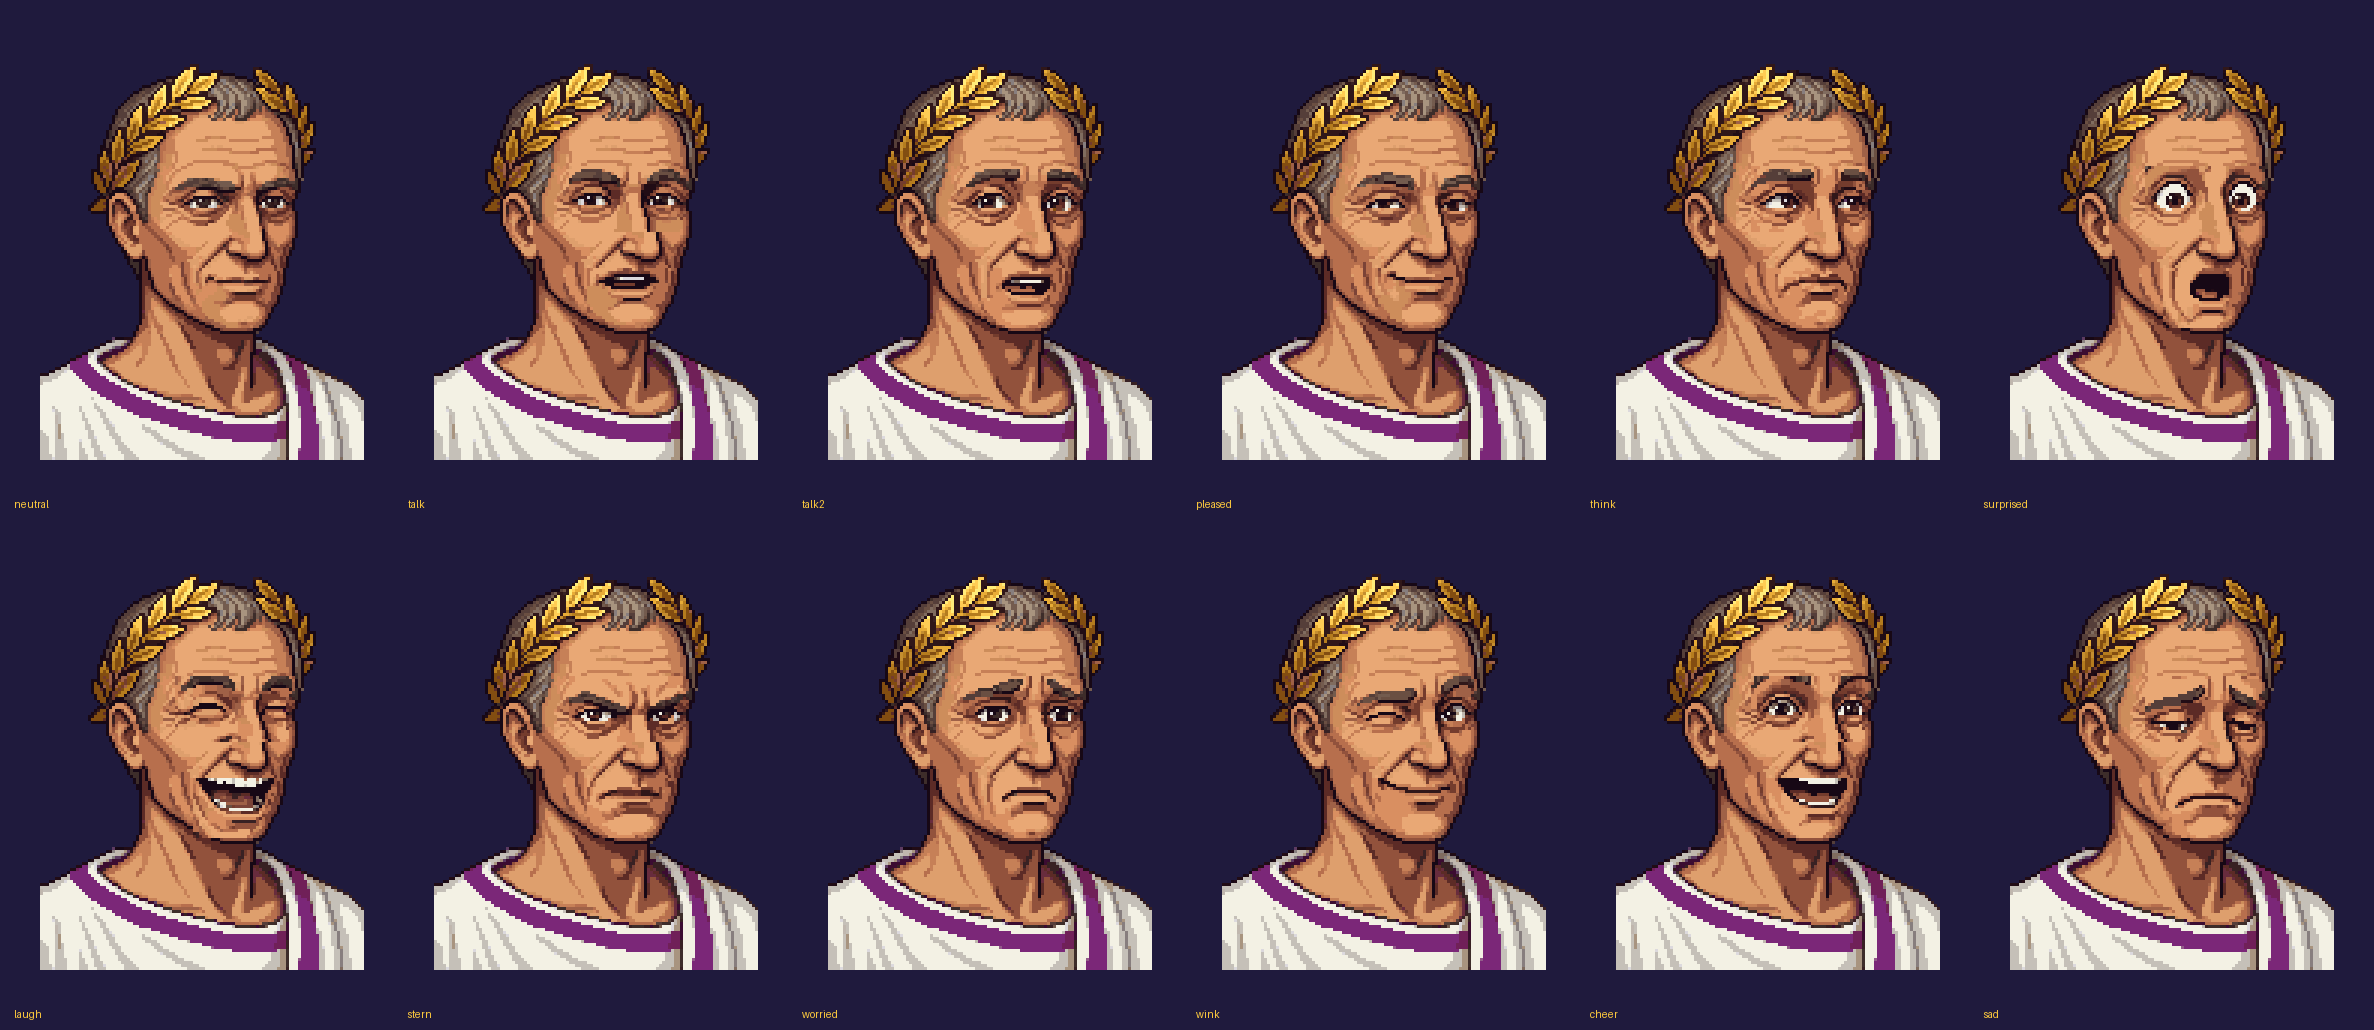
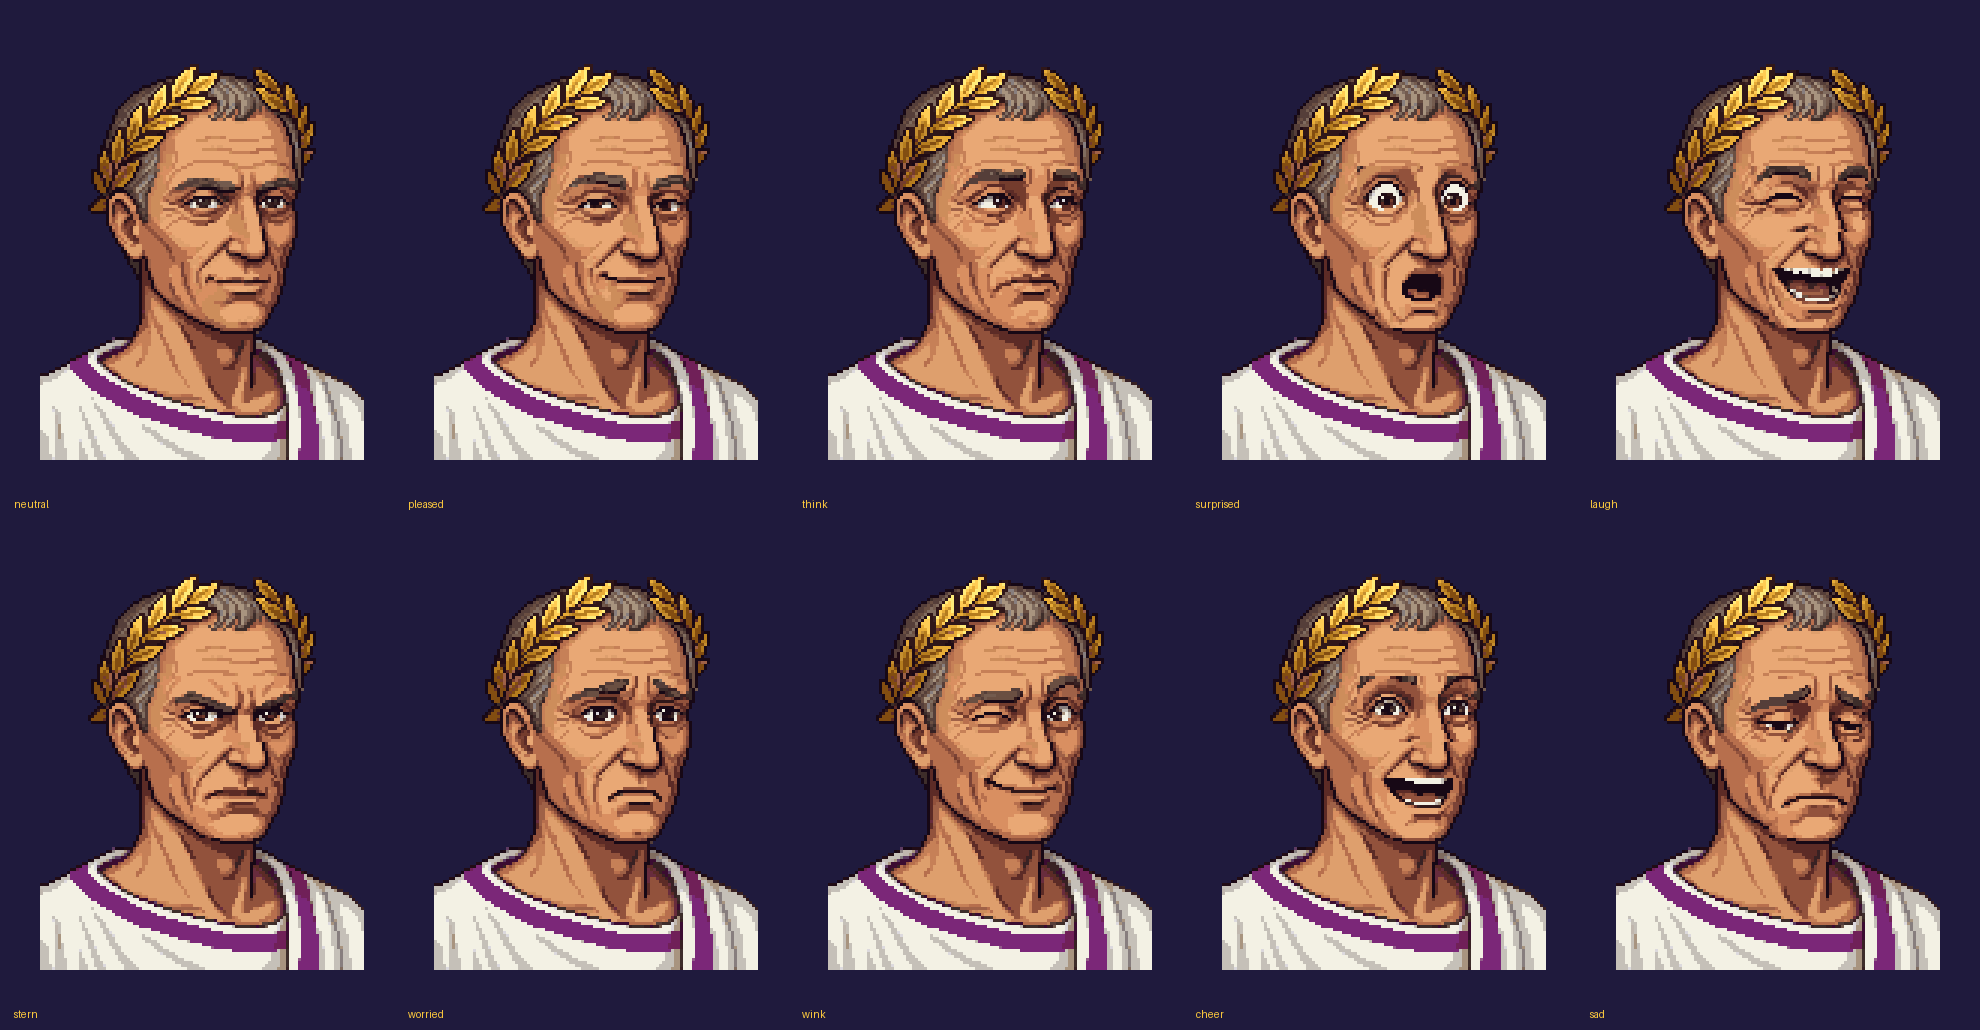
Cesar: la boca sigue al audio y el resto de la cara queda quieta
Fotogramas de solo boca (m1-m3) y envolvente de cada audio (audio/boca.json,
tools/voz/boca.py). El avatar pasa a canvas y se quita el rebote vertical.

diff --git a/app.js b/app.js
@@ -111,35 +111,49 @@ let openLevels = new Set();
 function readState(){try{return {...defaultState,...JSON.parse(localStorage.getItem('lingua-latina-v1')||'{}')}}catch{return {...defaultState}}}
 function saveState(){localStorage.setItem('lingua-latina-v1',JSON.stringify(state));updateCounts()}
 const player=new Audio();player.preload='auto';
-['playing'].forEach(e=>player.addEventListener(e,()=>talking(true)));['ended','pause','error'].forEach(e=>player.addEventListener(e,()=>talking(false)));
+player.addEventListener('playing',()=>talking(true,player.dataset.k));['ended','pause','error'].forEach(e=>player.addEventListener(e,()=>talking(false)));
 player.addEventListener('ended',()=>{const s=lastLine;lastLine='';if(/!\s*$/.test(s))pose('surprised',1800);else if(/\?\s*$/.test(s))pose('think',1800)});
 function esc(s){return s.replace(/&/g,'&amp;').replace(/"/g,'&quot;').replace(/</g,'&lt;')}
 function speakBtn(text,voice){return text?`<button class="icon-btn" data-say="${esc(text)}" data-voice="${voice||LECTOR}" aria-label="Escuchar">🔊</button>`:''}
 function speak(text,voice){
   if(!text)return;
   const rate=state.slow?0.75:1;
-  player.pause();player.defaultPlaybackRate=rate;player.src='audio/'+cyrb53((voice||LECTOR)+'|'+text)+'.mp3';player.playbackRate=rate;
+  const k=cyrb53((voice||LECTOR)+'|'+text);player.pause();player.dataset.k=k;player.defaultPlaybackRate=rate;player.src='audio/'+k+'.mp3';player.playbackRate=rate;
   /* si falta el audio, la voz del navegador (italiana) lee el latín */
-  player.play().catch(e=>{if(e.name==='AbortError'||!window.speechSynthesis)return;speechSynthesis.cancel();const u=new SpeechSynthesisUtterance(text);u.lang='it-IT';u.rate=state.slow?0.7:0.9;speechSynthesis.speak(u)})
+  player.play().catch(e=>{if(e.name==='AbortError'||!window.speechSynthesis)return;speechSynthesis.cancel();const u=new SpeechSynthesisUtterance(text);u.lang='it-IT';u.rate=state.slow?0.7:0.9;u.onstart=()=>talking(true);u.onend=u.onerror=()=>talking(false);speechSynthesis.speak(u)})
 }
 function applySlow(){const b=document.querySelector('#slow-toggle');b.classList.toggle('on',!!state.slow);b.setAttribute('aria-pressed',!!state.slow)}
 function nextChapter(){return chapters.findIndex((c,i)=>!state.completed.includes(i))}
 function say(text){document.querySelector('#bubble-text').textContent=text}
 /* César: retratos pixel art (avatar/). La cara no cambia: de cada expresión solo se trasplantan cejas, ojos y
    boca (tools/cesar_caras.py). Reacciona al tema del capítulo, a lo que se dice y a lo que haces. */
-const POSES=['neutral','talk','talk2','pleased','think','surprised','laugh','stern','worried','wink','cheer','sad'];
-POSES.forEach(n=>{new Image().src=`avatar/cesar-${n}.png`});
+const POSES=['neutral','m1','m2','m3','pleased','think','surprised','laugh','stern','worried','wink','cheer','sad'];
+const FRAMES={};POSES.forEach(n=>{const i=new Image();i.src=`avatar/cesar-${n}.png`;FRAMES[n]=i});
+/* boca al hablar: m1, m2, m3 son solo la boca sobre la cara neutral; audio/boca.json da el nivel (0-3) de cada audio cada 50 ms */
+const BOCA=['neutral','m1','m2','m3'],PASO_BOCA=0.05;
+let ENVOLVENTES=null;fetch('audio/boca.json').then(r=>r.json()).then(j=>{ENVOLVENTES=j}).catch(()=>{});
 /* humor de cada capítulo según su tema */
 const MOOD=['pleased','pleased','wink','stern','pleased','cheer','wink','pleased','pleased','surprised','worried','stern','think','pleased','think','worried','think','think','wink','pleased','stern','surprised','pleased','worried','surprised','worried','pleased','worried','cheer','laugh','wink','cheer','stern','think','cheer'];
 const OK_LINES=['Optime!','Bene! Así se hace.','Recte!','¡Exacto! Se nota que estudias.','Perfecte!'];
 const BAD_LINES=['Non ita. No pasa nada: así se aprende.','Casi. Mira la respuesta y sigue.','Errare humanum est… sigamos.'];
 const QUIPS=[['surprised','¡Eh! Cuidado con la corona de laurel.'],['laugh','Ave! No cobro por saludar.'],['wink','Alea iacta est. ¿Seguimos?'],['stern','Menos cosquillas y más latín.'],['think','¿Sabías que mi nombre se pronuncia «Kaisar»?']];
-let poseTimer,mouthTimer,okStreak=0,badStreak=0,lastLine='';
+let poseTimer,mouthTimer,lipRaf=0,actual='',okStreak=0,badStreak=0,lastLine='';
 const pick=a=>a[Math.floor(Math.random()*a.length)];
-function setPose(n){document.querySelector('#cesar').src=`avatar/cesar-${n}.png`}
+function setPose(n){
+  if(n===actual)return;actual=n;
+  const c=document.querySelector('#cesar'),f=FRAMES[n],dibuja=()=>{if(actual===n){const x=c.getContext('2d');x.clearRect(0,0,c.width,c.height);x.drawImage(f,0,0)}};
+  f.complete&&f.naturalWidth?dibuja():f.addEventListener('load',dibuja,{once:true})
+}
 function pose(n,ms){clearTimeout(poseTimer);setPose(n);if(ms)poseTimer=setTimeout(()=>setPose('neutral'),ms)}
 function react(n,text,ms){pose(n,ms===undefined?2600:ms);if(text)say(text)}
-function talking(on){const a=document.querySelector('.avatar');clearInterval(mouthTimer);a.classList.toggle('talking',on);if(on){clearTimeout(poseTimer);const f=['talk','neutral','talk2','talk','neutral'];let i=0;setPose(f[0]);mouthTimer=setInterval(()=>{i=(i+1)%f.length;setPose(f[i])},170)}else setPose('neutral')}
+function talking(on,hash){
+  cancelAnimationFrame(lipRaf);clearInterval(mouthTimer);
+  if(!on){setPose('neutral');return}
+  clearTimeout(poseTimer);
+  const env=ENVOLVENTES&&hash&&ENVOLVENTES[hash];
+  if(env){const paso=()=>{setPose(BOCA[env[Math.min(env.length-1,Math.floor(player.currentTime/PASO_BOCA))]]);lipRaf=requestAnimationFrame(paso)};paso()}
+  else{const f=['m1','neutral','m2','m1','neutral'];let i=0;setPose('m1');mouthTimer=setInterval(()=>{i=(i+1)%f.length;setPose(f[i])},200)}
+}
 function reactAnswer(correct){
   if(correct){badStreak=0;okStreak++;
     if(okStreak%3===0)react('cheer',`¡${okStreak} seguidas! Veni, vidi, vici.`,3200);
@@ -224,7 +238,7 @@ document.querySelector('#continue-button').addEventListener('click',()=>{const n
 document.addEventListener('click',e=>{const b=e.target.closest('[data-say]');if(b){lastLine=b.closest('.msg')?b.dataset.say:'';speak(b.dataset.say,b.dataset.voice)}});
 document.querySelector('#slow-toggle').addEventListener('click',()=>{state.slow=!state.slow;saveState();applySlow();showToast(state.slow?'Voz lenta activada.':'Voz a velocidad normal.');react(state.slow?'wink':'pleased',state.slow?'Festina lente: apresúrate despacio.':'A buen paso entonces.',2400)});
 document.querySelector('.avatar').addEventListener('click',()=>{const [p,s]=pick(QUIPS);react(p,s,2600)});
-renderChapters();updateCounts();applySlow();
+renderChapters();updateCounts();applySlow();setPose('neutral');
 const away=state.lastVisit?(Date.now()-state.lastVisit)/864e5:0;
 if(state.completed.length&&away>=3)react('surprised',`¡Han pasado ${Math.floor(away)} días! Repasemos antes de seguir.`,4000);
 else if(state.completed.length)react('pleased','Salve de nuevo. Sigamos donde lo dejamos.',3000);

diff --git a/style.css b/style.css
@@ -42,10 +42,8 @@ a { color: inherit; }
 .wrap { display: grid; grid-template-columns: 300px minmax(0, 1fr); gap: 28px; max-width: 1180px; margin: 0 auto; padding: 24px 20px 60px; }
 .side { position: sticky; top: 84px; align-self: start; }
 .avatar { width: 256px; margin: 0 auto; filter: drop-shadow(0 10px 18px rgba(0,0,0,.35)); }
-.avatar img { display: block; width: 100%; height: auto; image-rendering: pixelated; image-rendering: crisp-edges; }
+.avatar canvas { display: block; width: 100%; height: auto; image-rendering: pixelated; image-rendering: crisp-edges; }
 .avatar { cursor: pointer; }
-.avatar.talking { animation: talkbob .32s ease-in-out infinite; }
-@keyframes talkbob { 50% { transform: translateY(-2px); } }
 .bubble { position: relative; margin-top: 14px; background: var(--paper); color: var(--ink); border-radius: var(--radius); padding: 14px 16px; box-shadow: var(--shadow); font-size: 16px; min-height: 64px; }
 .bubble::before { content: ''; position: absolute; top: -10px; left: 50%; margin-left: -10px; border: 10px solid transparent; border-top: 0; border-bottom-color: var(--paper); }
 .bubble .who { display: block; font: 700 12px/1 var(--head); color: var(--red); letter-spacing: 1px; margin-bottom: 6px; text-transform: uppercase; }
@@ -199,7 +197,7 @@ p { margin: 0 0 10px; }
   .wrap { grid-template-columns: 1fr; gap: 12px; padding: 12px 16px 96px; }
   .side { position: sticky; top: 0; z-index: 10; display: flex; align-items: center; gap: 10px; background: var(--bg); padding: 6px 16px 8px; margin: 0 -16px; border-bottom: 1px solid var(--line); }
   .avatar { width: 92px; margin: 0; flex: none; }
-  .avatar img { image-rendering: auto; }
+  .avatar canvas { image-rendering: auto; }
   .bubble { margin-top: 0; flex: 1; font-size: 14.5px; padding: 10px 12px; min-height: 0; max-height: 108px; overflow-y: auto; }
   .bubble::before { top: 50%; left: -10px; margin: -10px 0 0; border: 10px solid transparent; border-left: 0; border-right-color: var(--paper); }
   .pair { grid-template-columns: 1fr; gap: 12px; }

diff --git a/index.html b/index.html
@@ -21,7 +21,7 @@
 
   <div class="wrap">
     <aside class="side" aria-label="César, tu guía">
-      <div class="avatar" aria-hidden="true"><img id="cesar" src="avatar/cesar-neutral.png" width="128" height="160" alt=""></div>
+      <div class="avatar" aria-hidden="true"><canvas id="cesar" width="128" height="160"></canvas></div>
       <div class="bubble" id="bubble"><span class="who">Caesar</span><span id="bubble-text"></span></div>
     </aside>
 

diff --git a/tools/cesar_caras.py b/tools/cesar_caras.py
@@ -7,6 +7,9 @@ trasplantan las cejas y los ojos y la boca; esos píxeles se ajustan a la paleta
     python tools/cesar_caras.py avatar/cesar-neutral.png avatar/fuentes avatar          # todas
     python tools/cesar_caras.py base.png fuentes salida talk think                       # solo algunas
 
+Las poses llamadas m1, m2, m3… son de solo boca (cejas y ojos quedan como en la base): sirven para mover los
+labios al hablar sin que cambie el resto de la cara.
+
 Cada fuente es <pose>.png, de 128x160, la base editada por PixelLab (descripción: «Same man ... Change only
 the face: ...»). Necesita Pillow y numpy."""
 import os, sys
@@ -16,6 +19,7 @@ from PIL import Image, ImageFilter
 # zonas de la cara que cambian con la emoción (x0, y0, x1, y1), en píxeles de la imagen de 128x160
 CEJAS_OJOS = (55, 52, 96, 74)
 BOCA = (61, 86, 93, 106)
+BOCA_SOLA = (63, 87, 91, 101)  # labios y poco más, para los fotogramas m1, m2… (sin tocar mandíbula ni mentón)
 BORDE = 3  # el contorno de la cara no se toca: se erosiona la silueta 3 píxeles
 
 
@@ -42,7 +46,7 @@ def desplazamiento(base, fuente):
     return mejor[1], mejor[2]
 
 
-def trasplanta(base_img, fuente_img):
+def trasplanta(base_img, fuente_img, regiones=(CEJAS_OJOS, BOCA)):
     base = np.asarray(base_img.convert('RGBA'))
     fuente = np.asarray(fuente_img.convert('RGBA'))
     dx, dy = desplazamiento(base, fuente)
@@ -50,7 +54,7 @@ def trasplanta(base_img, fuente_img):
     alfa = Image.fromarray(((base[..., 3] > 0) * 255).astype('uint8')).filter(ImageFilter.MinFilter(2 * BORDE + 1))
     interior = np.asarray(alfa) > 0
     zona = np.zeros(interior.shape, bool)
-    for x0, y0, x1, y1 in (CEJAS_OJOS, BOCA):
+    for x0, y0, x1, y1 in regiones:
         zona[y0:y1, x0:x1] = True
     zona &= interior & (fuente[..., 3] > 0)
     paleta = np.unique(base[base[..., 3] > 0][:, :3], axis=0)
@@ -72,6 +76,7 @@ if __name__ == '__main__':
         pose, ext = os.path.splitext(f)
         if ext != '.png' or (solo and pose not in solo):
             continue
-        img, desp, n = trasplanta(b, Image.open(os.path.join(fuentes, f)))
+        solo_boca = pose[0] == 'm' and pose[1:].isdigit()
+        img, desp, n = trasplanta(b, Image.open(os.path.join(fuentes, f)), (BOCA_SOLA,) if solo_boca else (CEJAS_OJOS, BOCA))
         img.save(os.path.join(salida, f'cesar-{pose}.png'))
         print(pose, 'desplazamiento', desp, 'píxeles trasplantados', n)

diff --git a/tools/voz/boca.py b/tools/voz/boca.py
@@ -1,0 +1,53 @@
+"""Envolvente de cada audio para mover la boca de César al ritmo de la voz.
+
+Para cada mp3 de audio/ calcula la intensidad de la voz cada 50 ms y la reduce a cuatro niveles de apertura:
+0 cerrada, 1 pequeña, 2 media, 3 amplia (fotogramas m1, m2, m3). Los umbrales son relativos al propio clip, así
+que da igual el volumen de cada voz. Escribe audio/boca.json: {hash del audio: "0012331…"}, un dígito por 50 ms.
+
+    python tools/voz/boca.py spoken.json audio
+
+Necesita ffmpeg y numpy."""
+import json, os, subprocess, sys
+
+import numpy as np
+
+sys.path.insert(0, os.path.dirname(os.path.abspath(__file__)))
+from gen_audio import key
+
+SR = 16000
+PASO = 0.05  # segundos por dígito (la app usa el mismo valor)
+
+
+def envolvente(mp3):
+    pcm = subprocess.run(['ffmpeg', '-loglevel', 'error', '-i', mp3, '-ar', str(SR), '-ac', '1', '-f', 's16le', '-'],
+                         capture_output=True, check=True).stdout
+    x = np.frombuffer(pcm, dtype=np.int16).astype(np.float32) / 32768
+    n = int(SR * PASO)
+    k = len(x) // n
+    rms = np.sqrt((x[:k * n].reshape(k, n) ** 2).mean(1))
+    ref = np.percentile(rms, 90) or 1.0
+    # contra el máximo local (±0,3 s): cada sílaba abre y cierra aunque la voz sea continua
+    v = 6
+    local = np.array([rms[max(0, i - v):i + v + 1].max() for i in range(k)])
+    rl = rms / np.maximum(local, 1e-6)
+    nivel = np.select([rl < 0.35, rl < 0.65, rl < 0.9], [0, 1, 2], 3)
+    nivel = np.where(rms < 0.2 * ref, 0, nivel)           # silencio: boca cerrada
+    nivel = np.where((nivel == 3) & (rms < 0.8 * ref), 2, nivel)  # la apertura amplia, solo en los picos
+    # un nivel aislado (un solo paso) parpadea: se suaviza con la mediana de tres
+    s = nivel.copy()
+    for i in range(1, k - 1):
+        s[i] = int(np.median(nivel[i - 1:i + 2]))
+    return ''.join(str(int(v)) for v in s)
+
+
+if __name__ == '__main__':
+    items = json.load(open(sys.argv[1], encoding='utf-8'))
+    audio = sys.argv[2]
+    out = {}
+    for it in items:
+        h = key(it['voice'], it['text'])
+        f = os.path.join(audio, h + '.mp3')
+        if os.path.exists(f):
+            out[h] = envolvente(f)
+    json.dump(out, open(os.path.join(audio, 'boca.json'), 'w'), separators=(',', ':'))
+    print(len(out), 'audios;', sum(len(v) for v in out.values()), 'pasos de', PASO, 's')
